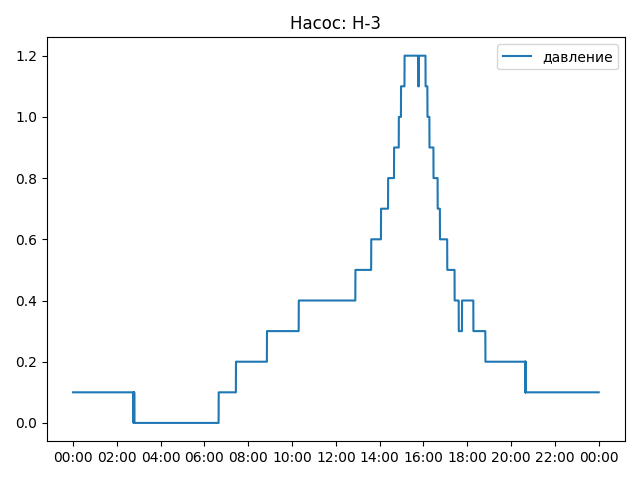
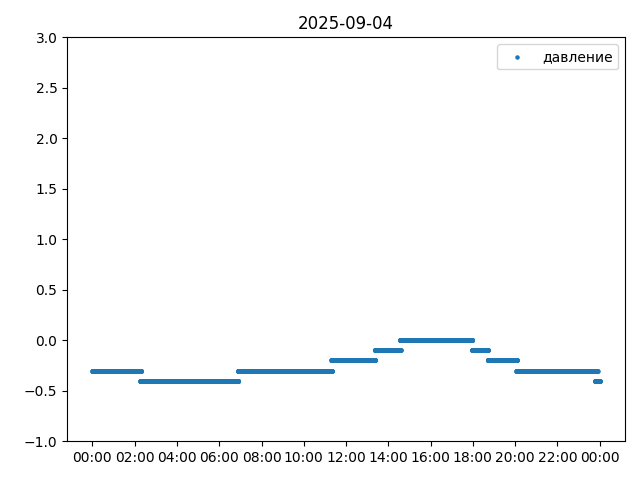
сброс показаний при обрыве связи, правка графиков

diff --git a/service/message.py b/service/message.py
@@ -1,25 +1,27 @@
+from typing import List, Sequence
+
 from aiogram import Bot
 from aiogram.exceptions import TelegramBadRequest
-from sqlalchemy import select
 from sqlalchemy.orm import sessionmaker
 
-from db.models import User
 from config import Alerts
+from db.repo import get_all_userIDs
 
 
-async def send_message(bot: Bot, db_pool: sessionmaker, txt: str):
-    async with db_pool() as session:
-        userids = (await session.scalars(select(User.id))).all()
-        for uid in userids:
-            try:
-                await bot.send_message(chat_id=uid, text=txt)
-            except TelegramBadRequest:
-                pass
+async def send_message(bot: Bot, userIDs: Sequence[int], txt: str):
+    for uid in userIDs:
+        try:
+            await bot.send_message(chat_id=uid, text=txt)
+        except TelegramBadRequest:
+            pass
 
 
 async def handle_alerts(
     bot: Bot, db_pool: sessionmaker, alerts: list[tuple[str, dict]]
 ):
+    with db_pool() as session:
+        user_ids = await get_all_userIDs(session)
+
     for altype, al in alerts:
         match altype:
             case Alerts.GAS:
@@ -28,13 +30,25 @@ async def handle_alerts(
                 txt = f"Переполнение ёмкости {al['num']}!"
             case Alerts.BYPASS:
                 txt = f"Насос {al['pump']} работает в обход УЗА!"
-        await send_message(bot, db_pool, txt)
+        await send_message(bot, user_ids, txt)
+
+
+def combine_text(tankFlags: List[int]):
+    txt = "Информация по дренажным ёмкостям: \n\n"
+    for num, tank in enumerate(tankFlags, start=1):
+        txt += f"Ёмкость {num}: {'полная!' if tank else 'норма.'}\n"
+    return txt
 
 
 async def morning_message(bot: Bot, db_pool: sessionmaker):
     import service.modbus as mb
 
-    txt = "Информация по дренажным ёмкостям: \n\n"
-    for num, tank in enumerate(mb.Tanks, start=1):
-        txt += f"Ёмкость {num}: {'полная!' if tank else 'норма.'}\n"
-    await send_message(bot, db_pool, txt)
+    async with db_pool() as session:
+        user_ids = await get_all_userIDs(session)
+
+    if mb.isConnected:
+        txt = combine_text(mb.Tanks)
+    else:
+        txt = "нет связи со щитом управления!"
+
+    await send_message(bot, user_ids, txt)

diff --git a/service/plot.py b/service/plot.py
@@ -1,15 +1,16 @@
 from collections import defaultdict
 from pathlib import Path
 from typing import Sequence
-import datetime as dt
-import matplotlib.pyplot as plt
+
 import matplotlib.dates as mdates
+import matplotlib.pyplot as plt
 
 from config import GS_PROBE, GS_PUMP, GasRooms
 from db.models import GasSensor, Pump
 
 
 def plot_pumps(pumps: Sequence[Pump]):
+    curr_date = pumps[0].timestamp.date()
     sorted_pumps = defaultdict(list)
     for pump in pumps:
         sorted_pumps[pump.name].append(pump)
@@ -19,7 +20,7 @@ def plot_pumps(pumps: Sequence[Pump]):
         ax = plt.gca()
         times = [p.timestamp for p in sorted_pumps[pump]]
         pressures = [p.pressure for p in sorted_pumps[pump]]
-        plt.plot(times, pressures, label="давление")
+        plt.scatter(times, pressures, label="давление", s=5)
         date_format = mdates.DateFormatter("%H:%M")
         ax.xaxis.set_major_locator(mdates.HourLocator(interval=2))
         ax.xaxis.set_major_formatter(date_format)
@@ -29,13 +30,16 @@ def plot_pumps(pumps: Sequence[Pump]):
         # end_of_day = start_of_day + dt.timedelta(days=1)
         # ax.set_xlim(start_of_day, end_of_day)
         plt.legend()
-        plt.title(f"Насос: {pump}")
+        plt.title(f"{curr_date}")
         plt.tight_layout()
+        plt.ylim(-1, 3)
         plt.savefig(Path(f"images/{pump}.png"))
         plt.close()
 
 
 def plot_gs(gs: Sequence[GasSensor]):
+    curr_date = gs[0].timestamp.date()
+    print(type(curr_date))
     data = dict(zip([i.value for i in GasRooms], (GS_PUMP, GS_PROBE)))
     sorted_sensors = defaultdict(list)
     for sensor in gs:
@@ -52,7 +56,7 @@ def plot_gs(gs: Sequence[GasSensor]):
         ax.xaxis.set_major_locator(mdates.HourLocator(interval=2))
         ax.xaxis.set_major_formatter(date_format)
         plt.legend()
-        plt.title(f"Помещение: {room}")
+        plt.title(f"{curr_date}")
         plt.tight_layout()
         plt.savefig(Path(f"images/{room}.png"))
         plt.close()

diff --git a/dialogs/handlers.py b/dialogs/handlers.py
@@ -1,13 +1,13 @@
 from datetime import date
 from pathlib import Path
-from typing import Callable, Sequence, Type, TypeVar
+from typing import Callable, Sequence, Type
+
 from aiogram.types import CallbackQuery, Message
 from aiogram_dialog import DialogManager, StartMode
 from aiogram_dialog.widgets.input import ManagedTextInput
 from aiogram_dialog.widgets.kbd import Button
 from sqlalchemy import func, select
 from sqlalchemy.ext.asyncio import AsyncSession
-from sqlalchemy.sql.expression import Function
 
 from config import settings
 from db.models import GasSensor, Pump, User
@@ -36,17 +36,43 @@ async def wrong_passwd(msg: Message, *args, **kwargs):
     await msg.answer("Пароль неверный!")
 
 
+def check_connection() -> bool:
+    import service.modbus as mb
+
+    return mb.isConnected
+
+
+def reset_sensors_values(sensors: Sequence[GasSensor]) -> None:
+    for sensor in sensors:
+        sensor.value = -999
+
+
 async def to_gas_rooms(clb: CallbackQuery, button, manager: DialogManager):
     session: AsyncSession = manager.middleware_data["session"]
     sensors = await get_last_gassensors(session)
+
+    if not check_connection():
+        reset_sensors_values(sensors)
+
     draw_gassensors(sensors)
     await manager.next()
+
+
+def reset_pump_metrics(pumps: Sequence[Pump]):
+    for pump in pumps:
+        pump.pressure = -999
+        pump.temperature = -999
+        pump.work = -999
 
 
 async def to_uzas_and_pumps(clb: CallbackQuery, button, manager: DialogManager):
     manager.dialog_data["path"] = str(Path("images/uza&pumps.png"))
     session = manager.middleware_data["session"]
     pumps = await get_last_pumps(session)
+
+    if not check_connection():
+        reset_pump_metrics(pumps)
+
     draw_uzas_and_pumps(manager.dialog_data["path"], pumps)
     await manager.switch_to(state=MainSG.pumps)
 

diff --git a/service/draw.py b/service/draw.py
@@ -1,5 +1,6 @@
 from pathlib import Path
 from typing import Sequence
+
 from PIL import Image, ImageDraw, ImageFont
 
 from config import GS_PROBE, GS_PUMP, PUMPS_IDS, GasRooms
@@ -27,7 +28,7 @@ def draw_gassensors(sensors: Sequence[GasSensor]):
             if sensor.name in POINTS[room]:
                 draw.text(
                     POINTS[room][sensor.name],
-                    f"{sensor.name}:   {round(sensor.value, 1)}%",
+                    f"{sensor.name}:   {sensor.value if sensor.value > (-10) else 'N/A'}%",
                     font=font,
                     fill="black",
                 )
@@ -71,12 +72,23 @@ def draw_uzas_and_pumps(output: str, pumps: Sequence[Pump]):
         )
         draw.text((x + 80, y - 30), PUMPS_IDS[i], font=pump_font)
         draw.text(
-            (x + 60, y + 100), f"{pumps[i].pressure} бар", fill="black", font=val_font
+            (x + 60, y + 100),
+            f"{pumps[i].pressure if pumps[i].pressure > -10 else 'N/A'} бар",
+            fill="black",
+            font=val_font,
         )
         draw.text(
-            (x + 60, y + 190), f"{pumps[i].temperature} °C", fill="black", font=val_font
+            (x + 60, y + 190),
+            f"{pumps[i].temperature if pumps[i].temperature > -30 else 'N/A'} °C",
+            fill="black",
+            font=val_font,
         )
-        draw.text((x + 60, y + 280), f"{pumps[i].work} ч.", fill="black", font=val_font)
+        draw.text(
+            (x + 60, y + 280),
+            f"{pumps[i].work if pumps[i].work > -1 else 'N/A'} ч.",
+            fill="black",
+            font=val_font,
+        )
         x += 300
 
     bg_img.save(output)

diff --git a/service/modbus.py b/service/modbus.py
@@ -8,7 +8,6 @@ from pymodbus.client import AsyncModbusTcpClient, ModbusBaseClient
 from sqlalchemy.orm import sessionmaker
 
 from config import ALL_SENSORS, PUMPS_IDS, Alerts, settings
-from service.message import handle_alerts
 
 logger = logging.getLogger(__name__)
 
@@ -19,6 +18,7 @@ Uzas, Shifters = [], []
 GSensors = [0] * 5
 Tanks = [0] * 3
 Bypasses = [0] * 4
+isConnected = False
 
 
 def convert_to_bin(num: int, width: int) -> list[int]:
@@ -44,7 +44,7 @@ async def process_data(client: ModbusBaseClient, data: List):
     sensors = [
         {
             "name": n,
-            "value": v,
+            "value": round(v, 1),
             "timestamp": ts,
         }
         for n, v in zip(ALL_SENSORS, words_to_floats(client, data[:12]))
@@ -92,6 +92,9 @@ async def process_data(client: ModbusBaseClient, data: List):
 
 
 async def poll_registers(bot: Bot, db_pool: sessionmaker) -> dict | None:
+    global isConnected
+    from service.message import handle_alerts
+
     async with AsyncModbusTcpClient(
         settings.modbus.host,
         port=settings.modbus.port,
@@ -100,6 +103,7 @@ async def poll_registers(bot: Bot, db_pool: sessionmaker) -> dict | None:
         reconnect_delay=0.5,
         reconnect_delay_max=0.5,
     ) as client:
+        isConnected = client.connected
         if not client.connected:
             logger.error("Нет соединения с ПР!")
             return

diff --git a/db/repo.py b/db/repo.py
@@ -9,7 +9,7 @@ from sqlalchemy.ext.asyncio import AsyncSession
 from sqlalchemy.orm import aliased, sessionmaker
 
 from config import settings
-from db.models import GasSensor, Pump
+from db.models import GasSensor, Pump, User
 from service.modbus import poll_registers
 
 logger = logging.getLogger(__name__)
@@ -74,3 +74,7 @@ def remove_old_data():
             print(t, "почищена")
         conn.commit()
         print("Все старые данные удалены")
+
+
+async def get_all_userIDs(session: AsyncSession):
+    return (await session.scalars(select(User.id))).all()
